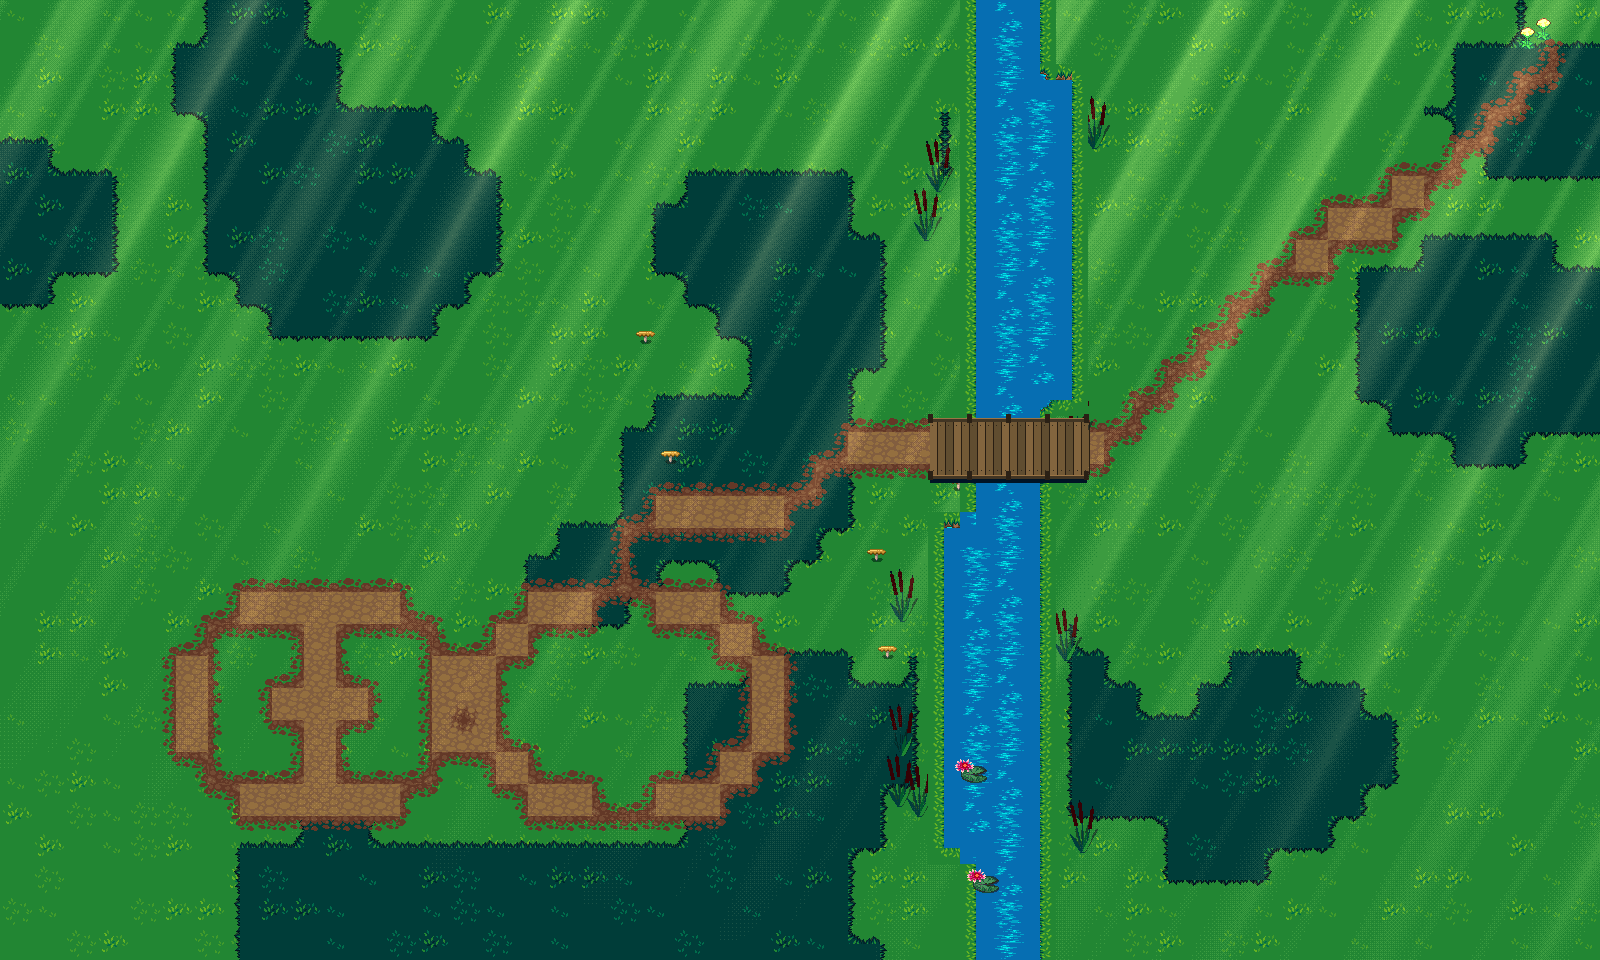
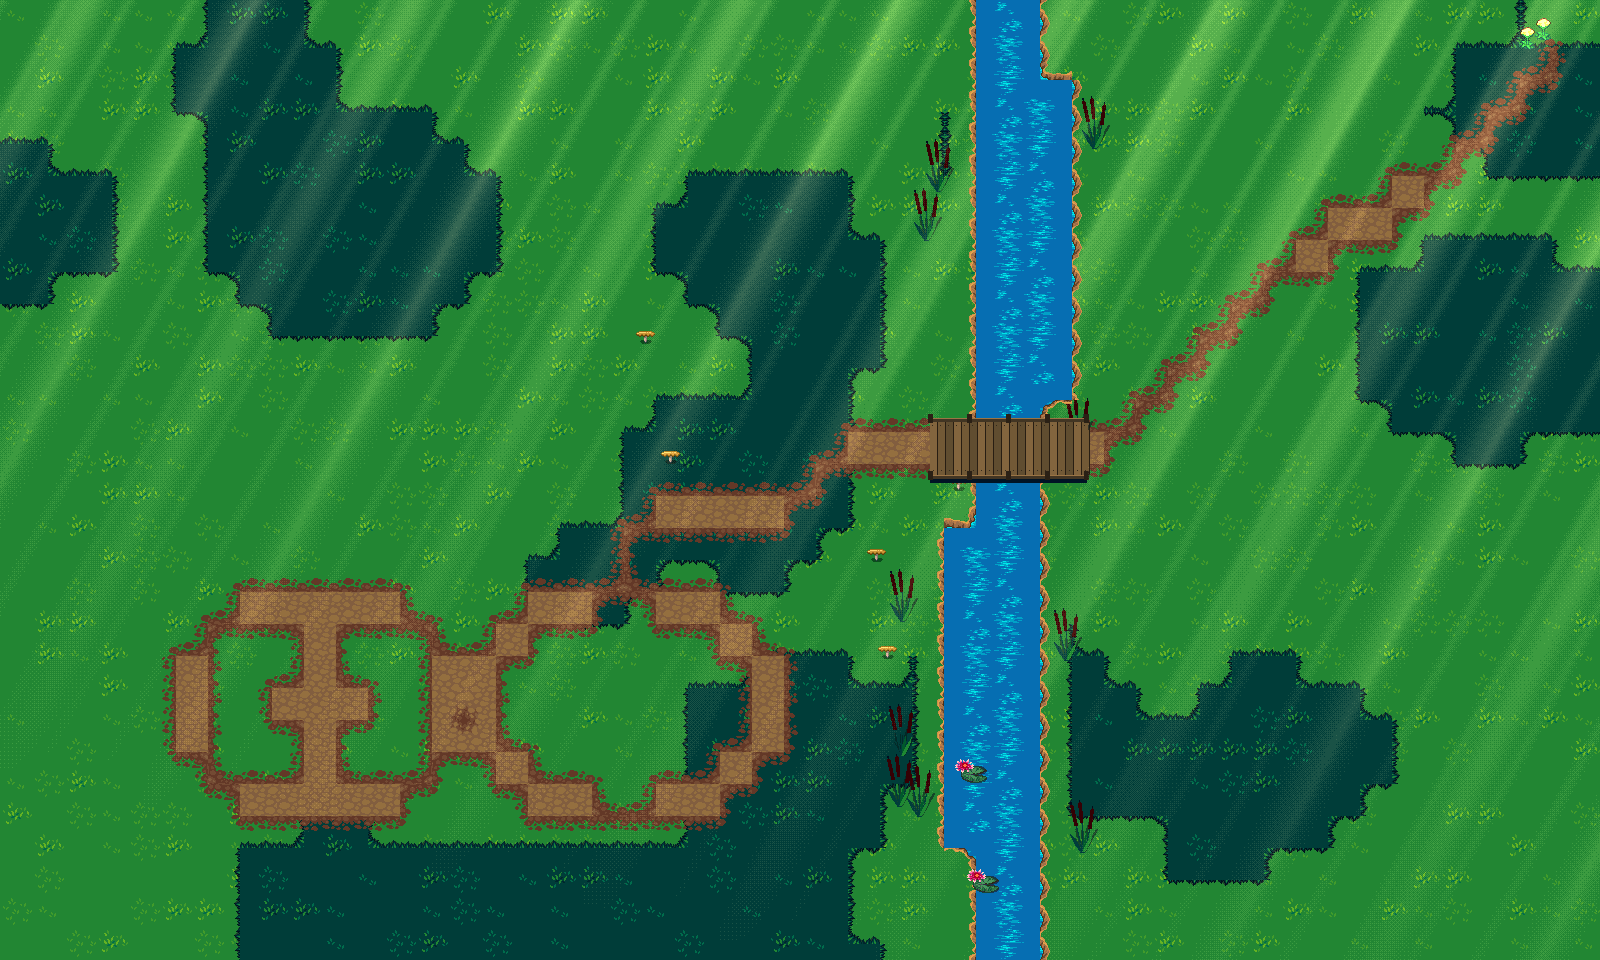
Rà spacing HUD: bản đồ nhỏ tràn khung có lưới, đồng hồ gọn chữ to, chữ không đè thẻ tiêu đề; bờ suối về kiểu bờ nâu
- Bản đồ nhỏ phủ toàn khung dưới thẻ tiêu đề và LED, lưới mờ 8 ô như moodboard
- Đồng hồ: khung thấp, chữ 10 px; Nhiệm vụ: lề trên đủ, chữ 7 px; thẻ đội: số góc trên, chân dung có viền, không đè nhau
- Tab Ba lô và nhãn ô hành động không tràn; toast 6.5 px
- Nước: trở lại bờ nâu terrain-v7 (bộ "nước trong cỏ" giữ làm dự phòng 'water-grass'), sông uốn nhẹ

Claude-Session: https://claude.ai/code/session_01YCpr5T4rGDWMVcFrGWhWr1

Changed region(s): [[0.5625, 0.5, 0.6562, 1.0], [0.5938, 0.0, 0.6875, 0.4375]]

diff --git a/src/ui/tokens.css b/src/ui/tokens.css
@@ -82,26 +82,32 @@ body {
 /* ---- HUD v10 (B5): bố cục theo moodboard assets/ui/v10_hud.png, đơn vị --px = 1 px game ---- */
 #ui > .hud, .hud * { pointer-events: none; }
 .hud { position: absolute; inset: 0; font-size: calc(var(--px) * 6.5); }
-.hud section { position: absolute; padding: calc(var(--px) * 4) calc(var(--px) * 6); }
+.hud section { position: absolute; padding: calc(var(--px) * 7) calc(var(--px) * 7) calc(var(--px) * 5); }
 .hud .v10-title { position: absolute; top: calc(var(--px) * -9); left: calc(var(--px) * 8); padding: 0 calc(var(--px) * 9); font-size: calc(var(--px) * 6); font-weight: 700; letter-spacing: 0.12em; text-transform: uppercase; line-height: calc(var(--px) * 12); white-space: nowrap; }
 .hud i[class^="v10-icon-"], .hud i.v10-marker-x { flex: none; }
 /* nhiệm vụ */
 .hud-mission { left: calc(var(--px) * 10); top: calc(var(--px) * 14); width: calc(var(--px) * 180); }
-.hud-level { font-weight: 600; margin-top: calc(var(--px) * 2); }
-.hud-obj, .hud-side div { display: flex; align-items: center; gap: calc(var(--px) * 3); margin-top: calc(var(--px) * 2); }
-.hud-side div { color: var(--dim); font-size: calc(var(--px) * 5.5); }
+.hud-level { font-weight: 600; font-size: calc(var(--px) * 7); margin-top: calc(var(--px) * 1); }
+.hud-obj, .hud-side div { display: flex; align-items: center; gap: calc(var(--px) * 4); margin-top: calc(var(--px) * 3); line-height: 1.2; }
+.hud-obj { font-size: calc(var(--px) * 7); }
+.hud-side div { color: var(--dim); font-size: calc(var(--px) * 6); }
 .hud-side div.done { text-decoration: line-through; }
 .hud-side b { color: var(--ink); font-weight: 600; }
 /* băng rôn tên màn: khung tối, mũi kép hồng hai đầu */
 .hud .hud-name { left: 50%; top: calc(var(--px) * 8); transform: translateX(-50%); position: absolute; display: flex; align-items: center; gap: calc(var(--px) * 6); padding: 0 calc(var(--px) * 10); font-size: calc(var(--px) * 7); font-weight: 700; letter-spacing: 0.14em; text-transform: uppercase; line-height: calc(var(--px) * 14); white-space: nowrap; }
 .hud-name .chev { color: var(--mag-hi); font-weight: 800; font-size: calc(var(--px) * 9); line-height: 1; }
 /* đồng hồ + bản đồ */
-.hud-clock { right: calc(var(--px) * 132); top: calc(var(--px) * 12); display: flex; align-items: center; gap: calc(var(--px) * 3); font-variant-numeric: tabular-nums; font-weight: 700; color: var(--warn); }
-.hud-map { right: calc(var(--px) * 10); top: calc(var(--px) * 14); width: calc(var(--px) * 116); height: calc(var(--px) * 86); }
-.hud-mini { image-rendering: pixelated; width: 100%; height: auto; display: block; margin-top: calc(var(--px) * 4); border: 1px solid var(--edge); }
+/* đồng hồ: khung thấp (viền panel đã chiếm 14 px trên / 10 px dưới nên nội dung kéo lên), chữ 10 px như moodboard */
+.hud-clock { right: calc(var(--px) * 136); top: calc(var(--px) * 14); height: calc(var(--px) * 30); padding: 0 calc(var(--px) * 8) 0 calc(var(--px) * 6); display: flex; align-items: flex-start; gap: calc(var(--px) * 4); font-variant-numeric: tabular-nums; font-weight: 700; font-size: calc(var(--px) * 10); line-height: calc(var(--px) * 12); color: var(--warn); white-space: nowrap; }
+.hud-clock > * { position: relative; top: calc(var(--px) * -6); }
+.hud-clock .v10-icon-clock { top: calc(var(--px) * -4); transform: scale(1.3); transform-origin: left center; }
+/* bản đồ nhỏ tràn khung (như moodboard): canvas phủ lên viền trong, chừa dải LED trên; thẻ tiêu đề nằm trên cùng */
+.hud-map { right: calc(var(--px) * 10); top: calc(var(--px) * 14); width: calc(var(--px) * 120); height: calc(var(--px) * 84); padding: 0; }
+.hud-map .v10-title { z-index: 1; }
+.hud-mini { position: absolute; top: calc(var(--px) * -3); left: calc(var(--px) * -4); width: calc(100% + var(--px) * 28); height: calc(100% + var(--px) * 7); image-rendering: pixelated; display: block; }
 /* thông báo một dòng: icon trái, chữ, LED phải, vạch hồng mép trái */
 .hud-toasts { position: absolute; right: calc(var(--px) * 10); top: calc(var(--px) * 108); width: calc(var(--px) * 186); display: flex; flex-direction: column; gap: calc(var(--px) * 3); }
-.hud-toast { position: relative; padding: calc(var(--px) * 1) calc(var(--px) * 5) calc(var(--px) * 1) calc(var(--px) * 7); font-size: calc(var(--px) * 6); line-height: calc(var(--px) * 11); animation: slidein 0.25s ease-out; display: flex; align-items: center; gap: calc(var(--px) * 4); white-space: nowrap; }
+.hud-toast { position: relative; padding: calc(var(--px) * 1) calc(var(--px) * 5) calc(var(--px) * 1) calc(var(--px) * 7); font-size: calc(var(--px) * 6.5); line-height: calc(var(--px) * 11); animation: slidein 0.25s ease-out; display: flex; align-items: center; gap: calc(var(--px) * 4); white-space: nowrap; }
 .hud-toast .txt { flex: 1; overflow: hidden; text-overflow: ellipsis; }
 .hud-toast::before { content: ''; position: absolute; left: calc(var(--px) * 1); top: calc(var(--px) * 3); bottom: calc(var(--px) * 3); width: calc(var(--px) * 2); background: var(--mag-hi); }
 @keyframes slidein { from { transform: translateX(20px); opacity: 0; } }
@@ -109,15 +115,15 @@ body {
 /* đội: 2×2 thẻ, số thứ tự góc, chân dung, HP xanh / SL vàng, icon tư thế bên phải */
 .hud-team { left: calc(var(--px) * 10); bottom: calc(var(--px) * 10); }
 .hud-cards { display: grid; grid-template-columns: 1fr 1fr; gap: calc(var(--px) * 3); margin-top: calc(var(--px) * 3); }
-.hud-card { position: relative; display: flex; gap: calc(var(--px) * 3); align-items: center; width: calc(var(--px) * 122); padding: calc(var(--px) * 2) calc(var(--px) * 3) calc(var(--px) * 2) calc(var(--px) * 9); }
-.hud-card .num { position: absolute; left: calc(var(--px) * 3); top: calc(var(--px) * 1); color: var(--tick); font-size: calc(var(--px) * 5.5); font-weight: 700; }
-.hud-card .pf { width: calc(var(--px) * 24); height: calc(var(--px) * 28); overflow: hidden; display: flex; align-items: flex-start; justify-content: center; background: var(--slot); flex: none; }
+.hud-card { position: relative; display: flex; gap: calc(var(--px) * 4); align-items: flex-end; width: calc(var(--px) * 124); padding: calc(var(--px) * 3) calc(var(--px) * 3) calc(var(--px) * 3) calc(var(--px) * 4); }
+.hud-card .num { position: absolute; left: calc(var(--px) * 3); top: calc(var(--px) * 1); color: var(--tick); font-size: calc(var(--px) * 5.5); font-weight: 700; line-height: 1; }
+.hud-card .pf { width: calc(var(--px) * 24); height: calc(var(--px) * 26); margin-top: calc(var(--px) * 6); overflow: hidden; display: flex; align-items: flex-start; justify-content: center; background: var(--slot); border: 1px solid var(--edge); flex: none; }
 .hud-card .pf canvas { image-rendering: pixelated; height: auto; margin-top: calc(var(--px) * -1); }
 .hud-card .info { flex: 1; min-width: 0; }
 .hud-card .nm { font-size: calc(var(--px) * 6); font-weight: 600; white-space: nowrap; }
 .hud-card .bar { display: flex; align-items: center; gap: calc(var(--px) * 3); font-size: calc(var(--px) * 5); color: var(--dim); margin-top: calc(var(--px) * 1); }
 .hud-card .bar i, .hud-detbar i { display: inline-block; height: calc(var(--px) * 5); }
-.hud-card .st { align-self: flex-start; margin-top: calc(var(--px) * 2); }
+.hud-card .st { align-self: flex-start; margin-top: calc(var(--px) * 7); }
 /* bảng hành động: cột tư thế có icon + 4 ô vuông lớn, phím ở góc, nhãn dưới */
 .hud-actions { left: 50%; bottom: calc(var(--px) * 10); transform: translateX(-50%); width: calc(var(--px) * 238); }
 .hud-act { display: flex; gap: calc(var(--px) * 6); margin-top: calc(var(--px) * 3); align-items: flex-start; }
@@ -130,13 +136,13 @@ body {
 .hud-slot .ico { display: flex; align-items: center; justify-content: center; }
 .hud-slot .ico canvas { image-rendering: pixelated; width: calc(var(--px) * 16); height: auto; display: block; }
 .hud-slot .ico > i { transform: scale(1.8); }
-.hud-slot .lbl { font-size: calc(var(--px) * 5.5); text-align: center; line-height: 1.1; color: var(--dim); white-space: nowrap; }
+.hud-slot .lbl { font-size: calc(var(--px) * 5.5); text-align: center; line-height: 1.1; color: var(--dim); width: calc(var(--px) * 40); }
 .hud-slot.on .lbl { color: var(--ink); }
 .hud-detect { display: flex; align-items: center; gap: calc(var(--px) * 4); margin-top: calc(var(--px) * 3); font-size: calc(var(--px) * 5.5); }
 /* ba lô: tab, 2×6 ô, thanh cuộn */
 .hud-bag { right: calc(var(--px) * 10); bottom: calc(var(--px) * 10); width: calc(var(--px) * 160); }
 .hud-tabs { display: flex; gap: calc(var(--px) * 2); margin-top: calc(var(--px) * 2); }
-.hud-tabs span { padding: 0 calc(var(--px) * 7); font-size: calc(var(--px) * 5.5); font-weight: 600; color: var(--dim); white-space: nowrap; }
+.hud-tabs span { padding: 0 calc(var(--px) * 1); font-size: calc(var(--px) * 5.5); font-weight: 600; color: var(--dim); white-space: nowrap; }
 .hud-tabs .v10-tab-active { color: var(--ink); }
 .hud-bagbody { display: flex; gap: calc(var(--px) * 3); margin-top: calc(var(--px) * 5); align-items: stretch; }
 .hud-grid { display: grid; grid-template-columns: repeat(6, calc(var(--px) * 20)); gap: calc(var(--px) * 2); }

diff --git a/src/ui/hud.ts b/src/ui/hud.ts
@@ -132,6 +132,10 @@ export class Hud {
     const x = this.mini.getContext('2d')!;
     x.imageSmoothingEnabled = false;
     x.drawImage(this.miniBase, 0, 0);
+    // lưới mờ như moodboard (mỗi 8 ô = 128 px thế giới)
+    x.fillStyle = 'rgba(62, 236, 255, 0.18)';
+    for (let gx = 0; gx < this.mini.width; gx += 8) x.fillRect(gx, 0, 1, this.mini.height);
+    for (let gy = 0; gy < this.mini.height; gy += 8) x.fillRect(0, gy, this.mini.width, 1);
     for (const d of dots) {
       x.fillStyle = d.color;
       const px = Math.floor(d.x / this.miniScale);

diff --git a/art/maps/lpc.py b/art/maps/lpc.py
@@ -24,12 +24,12 @@ def block(c, r):
 
 
 # Khối địa hình trong terrain-v7.png: mỗi khối 3×7 tile (lõi + viền chuyển tiếp)
-BLK = {'forest': block(2, 1), 'grass': block(0, 1), 'sun': block(1, 1), 'dirt': block(1, 0), 'water-t7': block(1, 2)}
+BLK = {'forest': block(2, 1), 'grass': block(0, 1), 'sun': block(1, 1), 'dirt': block(1, 0), 'water': block(1, 2)}
 
 
 @lru_cache(maxsize=None)
 def water_block() -> Image.Image:
-    """Khối 3×7 tổng hợp cho 'water': bộ "nước trong cỏ" 3×3 + 2×2 của Terrain and Outside (mép cỏ phủ lên nước,
+    """Khối 3×7 tổng hợp cho 'water-grass' (dự phòng, không dùng cho màn 1): bộ "nước trong cỏ" 3×3 + 2×2 của Terrain and Outside (mép cỏ phủ lên nước,
     bờ nâu chỉ lộ ở cạnh trên/dưới) xếp theo bố cục autotile: hàng 0–1 cột 1–2 góc lõm, hàng 2–4 viền 3×3, hàng 5 ô lõi."""
     ter = sheet('Terrain and Outside.png')
     blk = Image.new('RGBA', (96, 224), (0, 0, 0, 0))
@@ -42,7 +42,7 @@ def water_block() -> Image.Image:
 
 def _src(b):
     """(ảnh, x0, y0) của khối b: khối tổng hợp hoặc khối trong terrain-v7."""
-    if b == 'water':
+    if b == 'water-grass':
         return water_block(), 0, 0
     x0, y0 = BLK[b]
     return sheet('terrain-v7.png'), x0, y0

diff --git a/art/maps/level1.py b/art/maps/level1.py
@@ -115,8 +115,8 @@ def build(env: dict[str, Image.Image]):
     for k in range(3):
         wl = Image.new('RGBA', (W, H))
         # ô lõi có vệt sóng (hàng 5 của khối), cuộn dọc 11 px mỗi khung → sóng trôi xuôi dòng
-        # viền: bộ "nước trong cỏ" (lpc.water_block); lõi: ô sóng của terrain-v7 (cùng màu nền), cuộn dọc 11 px mỗi khung
-        lpc.autotile(wl, water, 'water', random.Random(1), interior=lambda x, y, k=k: lpc.roll_v(lpc.tile('water-t7', (x + y) % 3, 5), k * 11))
+        # viền bờ nâu của terrain-v7 (như moodboard); lõi: ô sóng cùng khối, cuộn dọc 11 px mỗi khung
+        lpc.autotile(wl, water, 'water', random.Random(1), interior=lambda x, y, k=k: lpc.roll_v(lpc.tile('water', (x + y) % 3, 5), k * 11))
         water_frames.append(wl)
     img.alpha_composite(water_frames[0])
     bridge = draw_bridge(img)
